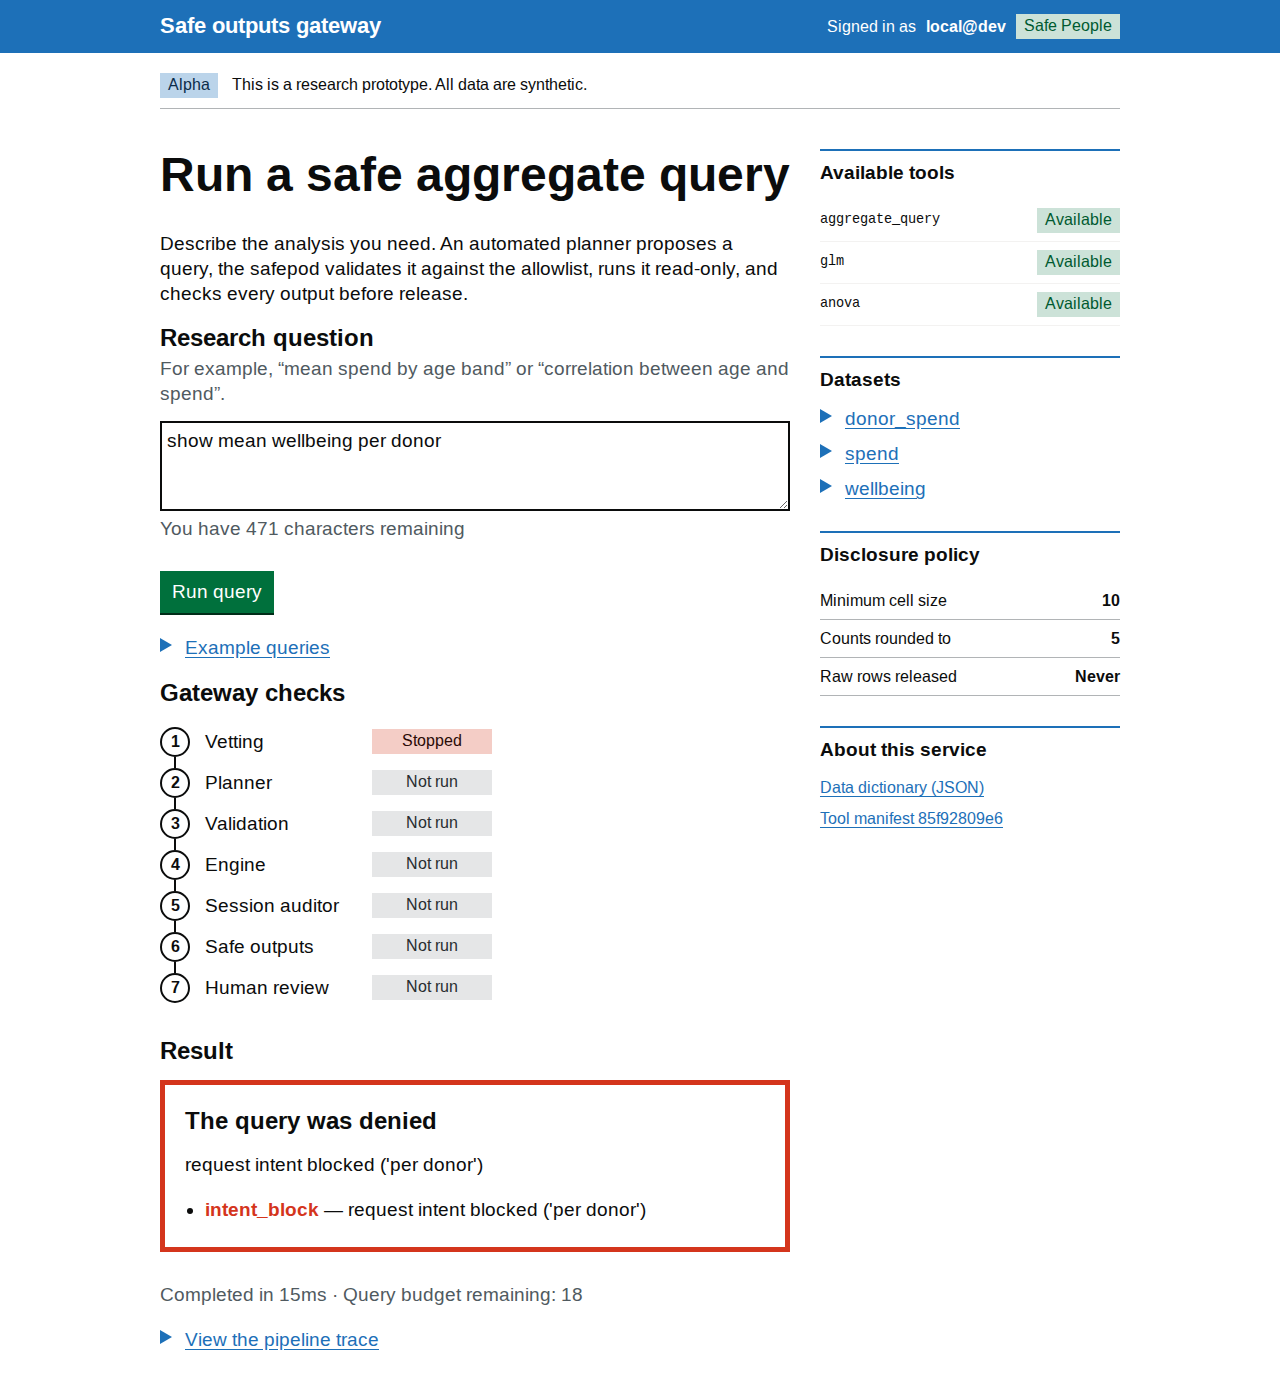
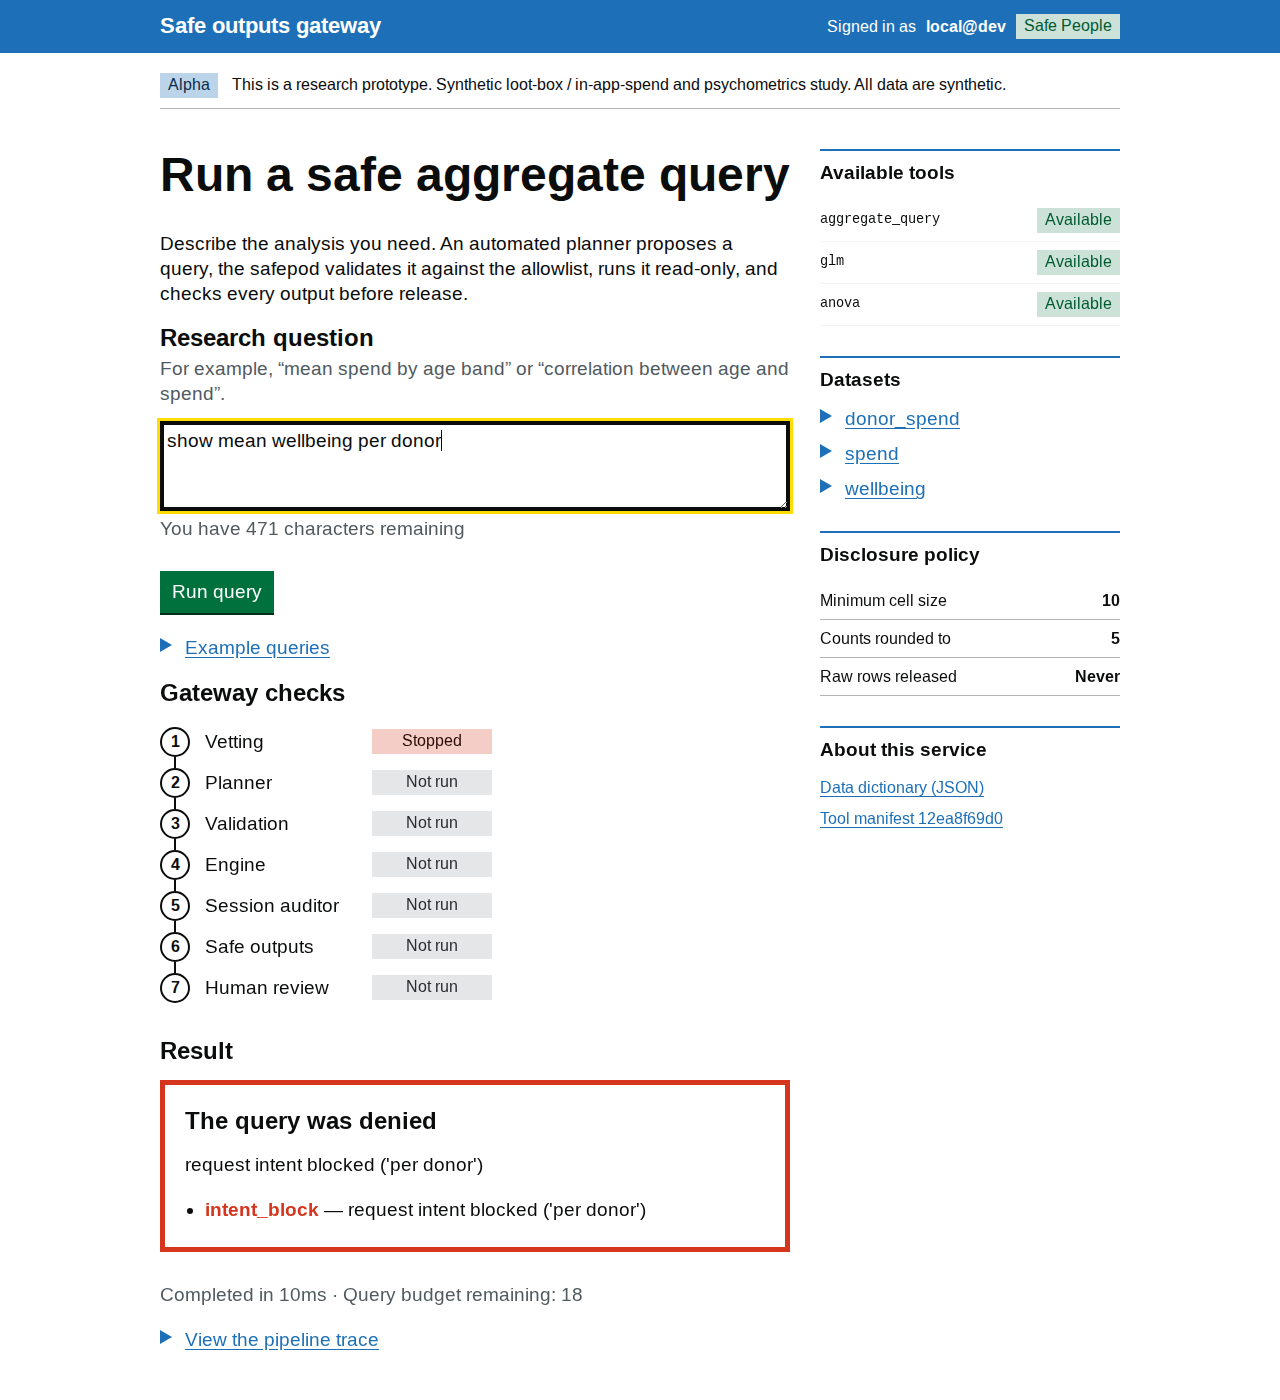
Give two documents their real names, and stop shipping a screenshot of a UI that no longer exists
Repository hygiene, from the fifth surface of the round-11 audit.

`docs/security2.md` was never a second security model -- its own H1 is
"Formal-methods hardening recommendations" and it is a companion to
FORMAL_METHODS_ANALYSIS, not to security.md. The name implied a supersession
that does not exist and hid the relationship that does. Both are renamed
(formal-methods-recommendations.md, formal-methods-analysis.md, the latter
also being the one file that broke the kebab-case scheme), with all twenty
referrers updated.

`docs/figures/web-ui-home.png` showed one tool where the app has had three
since the GLM round, an old manifest hash, and "All data is synthetic" -- and
was embedded in four documents. `web-ui-mobile.png` still showed the dark/teal
console the GOV.UK restyle retired in July, and nothing in the repository could
regenerate it. Both are deleted; make_demo_screenshots.py grew a per-shot
window size and now captures the mobile view too, so the whole set is
reproducible. The four demo shots were two rounds stale (manifest v8) and are
regenerated -- the released path still passes all seven gateway checks.

The red-team fixtures named a live commercial provider three times where a
neutral fixture already sat two tests below; the historical hardening entry
did too. Both neutralised: the project rule is that tracked content names no
provider.

Also: nohup.out and .audit-archive/ are ignored (both sat in `git status`
[…]

diff --git a/scripts/make_demo_screenshots.py b/scripts/make_demo_screenshots.py
@@ -33,11 +33,20 @@ BASE = f"http://127.0.0.1:{PORT}"
 
 # One entry per demo state. Queries are chosen so the deterministic mock
 # planner reproduces each gateway outcome; the tour page explains each one.
+# (url, window size). The mobile shot is here rather than captured by hand
+# because the hand-captured one went stale invisibly: `docs/figures/
+# web-ui-mobile.png` still showed the dark/teal console the GOV.UK restyle
+# retired in July, embedded in `docs/beginner.md`, with nothing in the
+# repository able to regenerate it (round 11 hygiene sweep).
+DESKTOP = "1280,1400"
+MOBILE = "390,1400"
 SHOTS = {
-    "demo-home": "/",
-    "demo-released": "/#q=mean%20spend%20by%20age%20band",
-    "demo-redacted": "/#q=mean%20spend%20by%20age%20band,%20region%20and%20device%20os",
-    "demo-denied": "/#q=show%20mean%20wellbeing%20per%20donor",
+    "demo-home": ("/", DESKTOP),
+    "demo-released": ("/#q=mean%20spend%20by%20age%20band", DESKTOP),
+    "demo-redacted": ("/#q=mean%20spend%20by%20age%20band,%20region%20and%20device%20os",
+                      DESKTOP),
+    "demo-denied": ("/#q=show%20mean%20wellbeing%20per%20donor", DESKTOP),
+    "demo-mobile": ("/", MOBILE),
 }
 
 
@@ -83,11 +92,11 @@ def main() -> None:
         try:
             wait_healthy()
             os.makedirs(FIGURES, exist_ok=True)
-            for name, path in SHOTS.items():
+            for name, (path, window) in SHOTS.items():
                 out = os.path.join(FIGURES, name + ".png")
                 subprocess.run(
                     [chrome, "--headless=new", "--disable-gpu", "--hide-scrollbars",
-                     "--window-size=1280,1400", "--run-all-compositor-stages-before-draw",
+                     f"--window-size={window}", "--run-all-compositor-stages-before-draw",
                      "--virtual-time-budget=9000",
                      f"--screenshot={out}", BASE + path],
                     check=True, stderr=subprocess.DEVNULL)

diff --git a/scripts/make_decks.py b/scripts/make_decks.py
@@ -613,7 +613,7 @@ def build_guidelines(shots: str, out: str) -> None:
 def build_formal_elif(shots: str, out: str) -> None:
     """The plain-language deck for the formal layer: what the Lean proofs and
     Alloy models do, why they are needed, how they work, where they stop
-    (precise version: docs/FORMAL_METHODS_ANALYSIS.md + formal/README.md)."""
+    (precise version: docs/formal-methods-analysis.md + formal/README.md)."""
     prs = Presentation()
     prs.slide_width = SLIDE_W
     prs.slide_height = SLIDE_H
@@ -621,7 +621,7 @@ def build_formal_elif(shots: str, out: str) -> None:
     title_slide(prs, "The maths-checked safety layer, explained simply",
                 "What the Lean proofs and Alloy models do, why we need them, "
                 "how they are built, and where they stop "
-                "(precise version: docs/FORMAL_METHODS_ANALYSIS.md · formal/README.md)")
+                "(precise version: docs/formal-methods-analysis.md · formal/README.md)")
 
     bullets_slide(prs, "TL;DR", [
         "Tests check the examples we thought of; proofs check EVERY possibility.",

diff --git a/tests/test_llm.py b/tests/test_llm.py
@@ -61,7 +61,7 @@ def test_llm_config_prefers_safetre_env_over_legacy_openai_env(monkeypatch):
 
 def test_llm_config_rejects_remote_endpoint_by_default(monkeypatch):
     clear_llm_env(monkeypatch)
-    monkeypatch.setenv("SAFETRE_LLM_BASE_URL", "https://openrouter.ai/api/v1")
+    monkeypatch.setenv("SAFETRE_LLM_BASE_URL", "https://remote.example/v1")
     with pytest.raises(ValueError, match="not allowed"):
         LLMConfig.from_env()
 
@@ -76,9 +76,9 @@ def test_llm_config_allows_named_in_safepod_model_host(monkeypatch):
 
 def test_llm_config_allows_remote_only_when_explicitly_enabled(monkeypatch):
     clear_llm_env(monkeypatch)
-    monkeypatch.setenv("SAFETRE_LLM_BASE_URL", "https://openrouter.ai/api/v1")
+    monkeypatch.setenv("SAFETRE_LLM_BASE_URL", "https://remote.example/v1")
     monkeypatch.setenv("SAFETRE_ALLOW_REMOTE_LLM", "1")
-    assert LLMConfig.from_env().base_url == "https://openrouter.ai/api/v1"
+    assert LLMConfig.from_env().base_url == "https://remote.example/v1"
 
 
 def test_remote_endpoint_configured_via_generic_env(monkeypatch):

diff --git a/tests/test_deploy_unit.py b/tests/test_deploy_unit.py
@@ -7,7 +7,7 @@ forged login was admitted; #65 set the audit database path and not the key, so
 the log was signed by a key sitting beside it. Both were found by reading, a
 round apart, and nothing in CI had ever looked at the file.
 
-This is what F8 was withdrawn in favour of (`docs/security2.md`). A trust-zone
+This is what F8 was withdrawn in favour of (`docs/formal-methods-recommendations.md`). A trust-zone
 model would have restated `docs/security.md`'s zone table with nothing tying it
 to the deployment, and passed forever regardless of what the unit said. The
 artifact under test here IS the thing that ships.

diff --git a/tests/test_formal_enumeration.py b/tests/test_formal_enumeration.py
@@ -1,6 +1,6 @@
 """Exhaustive (not sampled) formal checks over the bounded query skeleton.
 
-`docs/FORMAL_METHODS_ANALYSIS.md` argues the query space is finite and decidable.
+`docs/formal-methods-analysis.md` argues the query space is finite and decidable.
 `test_query_properties.py` samples it with Hypothesis; this module *enumerates*
 the no-filter skeleton in full — every dataset x every measure configuration x
 every group-by subset of size 0..MAX_GROUP_BY — and machine-checks the decidable

diff --git a/docs/hardening-log.md b/docs/hardening-log.md
@@ -210,7 +210,7 @@ models were rebuilt alongside them rather than after them — which is the other
 half of this round. `redteam/round9_repro.py` re-runs the four headline
 findings and exits nonzero while any is open; it is gated in CI beside the
 round-8 reproducers, and it self-checks that it can still fail by replaying a
-pre-#58 chain, where the defects must still be visible (hardening #48). `docs/security2.md` is the analysis that drove that;
+pre-#58 chain, where the defects must still be visible (hardening #48). `docs/formal-methods-recommendations.md` is the analysis that drove that;
 `formal/README.md` records what the models now check.
 
 | # | Finding | Sev | Status | Fix | Where |
@@ -230,7 +230,7 @@ pre-#58 chain, where the defects must still be visible (hardening #48). `docs/se
 | 70 | **CSRF posture rested on the content type.** There is no session cookie, so the classic token has nothing to protect — but the proxy header is an ambient credential, and a page the analyst visits could try to make their browser spend it. It failed only because the sole state-changing route takes JSON and a cross-origin JSON POST needs a preflight this app never answers: a defence by accident of content type, lasting until someone adds a form-encoded endpoint | Low | **Fixed** | a `Sec-Fetch-Site` gate refuses `cross-site` and `same-site` on state-changing methods. It is the browser's own account of provenance, so a page cannot forge it; an ABSENT header is allowed, because curl, the CLI and the test client send none and refusing them would break every non-browser caller for nothing | `safetre_web/app.py`, `tests/test_web.py` |
 | 71 | **The stored request is untrusted content, and nothing said so.** The audit log keeps the 500-character request verbatim. Templates autoescape today, so there is no live defect — but the chain proves a row is AUTHENTIC, which is a different claim from its contents being safe to render or to act on, and a stored prompt-injection payload is exactly the shape that fits the field | Low | **Documented** | `append` and `since` now say it where a future log viewer's author will read it, and a test pins that no template renders audit content unescaped. Deliberately not sanitised: the log's job is to record what happened, and a cleaned-up record of a hostile request is a worse record | `safetre/audit.py`, `tests/test_web.py` |
 | 72 | **An audit for one justification form, and the three claims it found.** Three findings had turned out to be the same mistake — D7's "the bit a direct query already returns" (#62), P22's "computable from the released cell table itself" (#66), and the original of both — so the form was searched for deliberately rather than waited for: a safety claim of the shape *the analyst could obtain this anyway*, asserted on the branch where they could not. Three more claims failed the check, none of them a live defect and all of them the reasoning a future reader would use | Low | **Corrected** | `simulatable_cohort_bound` said its interaction residual was "largely covered by the per-cell donor threshold (a narrow cohort's cells are suppressed anyway)" — but the threshold suppresses small CELLS and this attack never asks for one, it differences two legitimately large releases, which is the whole shape of #39/#40. It is also stale: the exact row-level leg has closed it since #40. `response_quantum_ms` justified its size by "cells at or above the threshold have their counts published anyway", true only up to ROUNDING — two released cohorts inside one rounding bucket also have exact sizes the analyst does not hold, so the quantum has to cover them too. The value is unchanged and measured; the argument for it was wrong, and an argument is what someone re-deriving the number would use. `Result.plans` said "safe to show" without distinguishing its content from its presence, which #66 had already made false | `safetre/disclosure.py`, `safetre/config.py`, `safetre/service.py`, `docs/policy-parameters.md` |
-| 73 | **Nothing in CI had ever read the shipped systemd unit.** #45 (`SAFETRE_REQUIRE_IDENTITY=1` with no proxy secret and no allowlist) and #65 (the audit database path set and not the key) were the same defect twice: the unit not setting something the running code treats as required. Both were found by reading, a round apart | Med | **Fixed** | `tests/test_deploy_unit.py` parses `deploy/safetre-web.service` and checks it against what the code itself calls production — the required names are read out of `identity.configuration_problems()` rather than restated, so a NEW requirement in the code fails until the unit answers it. It also checks that secrets are never literals in the unit, that the bind stays loopback-only, that the sandboxing directives survive edits, and end to end that the unit's own settings leave the code with nothing to complain about. This is what F8 was withdrawn in favour of: the artifact under test is the thing that ships, which a trust-zone model would not have been | `tests/test_deploy_unit.py`, `docs/security2.md` |
+| 73 | **Nothing in CI had ever read the shipped systemd unit.** #45 (`SAFETRE_REQUIRE_IDENTITY=1` with no proxy secret and no allowlist) and #65 (the audit database path set and not the key) were the same defect twice: the unit not setting something the running code treats as required. Both were found by reading, a round apart | Med | **Fixed** | `tests/test_deploy_unit.py` parses `deploy/safetre-web.service` and checks it against what the code itself calls production — the required names are read out of `identity.configuration_problems()` rather than restated, so a NEW requirement in the code fails until the unit answers it. It also checks that secrets are never literals in the unit, that the bind stays loopback-only, that the sandboxing directives survive edits, and end to end that the unit's own settings leave the code with nothing to complain about. This is what F8 was withdrawn in favour of: the artifact under test is the thing that ships, which a trust-zone model would not have been | `tests/test_deploy_unit.py`, `docs/formal-methods-recommendations.md` |
 | 74 | **The last thing a restart did not survive.** #49 rebuilt the differencing lineage from the audit log and documented one residual: the cheap first-pass check compares a release's DISTINCT-DONOR total against every prior release of the same measure, and the audit row recorded an output *shape* rather than that total — so the lineage layer came back whole after a restart and the totals layer came back empty. #58 made the accounting authoritative and left it; it was the only part of the restart path that still did not restore | Low | **Fixed** | the accounting block carries the totals the request observed, and `rehydrate` replays them through a new `SessionAuditor.restore_observation` — deliberately not `observe`, which would charge budget and re-evaluate a rule that already ran when the release was live. Rows written before this carry no `totals` key and restore nothing, exactly as they did | `safetre/service.py`, `safetre/disclosure.py`, `safetre_web/session.py`, `tests/test_hardening.py` |
 
 ### Notes
@@ -949,7 +949,7 @@ off-pod audit anchoring, and network policy outside the process.
 
 | # | Finding | Sev | Status | Fix | Where |
 |---|---|---|---|---|---|
-| 10 | Real-model config defaulted to a hosted OpenRouter-style endpoint and used a provider SDK, making the local-model production posture weaker than the docs implied | Med | **Fixed** | local-first `SAFETRE_LLM_*` config, no SDK dependency, stdlib OpenAI-compatible HTTP adapter, host allowlist, explicit `SAFETRE_ALLOW_REMOTE_LLM=1` for synthetic-data remote use | `safetre/llm.py`, `.env.example`, `docs/model-runtime.md` |
+| 10 | Real-model config defaulted to a hosted third-party endpoint and used a provider SDK, making the local-model production posture weaker than the docs implied | Med | **Fixed** | local-first `SAFETRE_LLM_*` config, no SDK dependency, stdlib OpenAI-compatible HTTP adapter, host allowlist, explicit `SAFETRE_ALLOW_REMOTE_LLM=1` for synthetic-data remote use | `safetre/llm.py`, `.env.example`, `docs/model-runtime.md` |
 
 ### Notes
 

diff --git a/docs/formal-methods-recommendations.md b/docs/formal-methods-recommendations.md
@@ -7,7 +7,7 @@ decisions are recorded below with the reasoning, because a recommendation that
 quietly stops being worked on is indistinguishable from one nobody got to. The delivered items landed with the round-9 code fixes they
 specify — hardening #58–#67, see the [hardening log](hardening-log.md) and
 [formal/README.md](https://github.com/wadelab/safe-tre-agent/blob/main/formal/README.md). Companion to
-[security.md](security.md), [FORMAL_METHODS_ANALYSIS.md](FORMAL_METHODS_ANALYSIS.md),
+[security.md](security.md), [formal-methods-analysis.md](formal-methods-analysis.md),
 [formal/README.md](https://github.com/wadelab/safe-tre-agent/blob/main/formal/README.md) and
 [redteam/round9_report.md](https://github.com/wadelab/safe-tre-agent/blob/main/redteam/round9_report.md). This document
 recommends the formal-model work and records which of it has landed.
@@ -483,7 +483,7 @@ exactly the overclaim this document exists to stop.
 
 ### F6, original plan
 
-Designed in FORMAL_METHODS_ANALYSIS.md §C; its prerequisite (release =
+Designed in formal-methods-analysis.md §C; its prerequisite (release =
 postprocess ∘ finalize ∘ vet, hardening #26) has landed, and
 `tests/test_release_equality.py` is the executable half in both directions.
 
@@ -526,7 +526,7 @@ Roadmap item 3, unchanged in position: the only route to value-level
 insensitivity to any one donor as a theorem rather than a control description.
 Everything above hardens the deterministic pathway; this replaces "insensitive
 up to the controls" with an ε. Prefer a vetted library (OpenDP or equivalent)
-over a bespoke mechanism proof, per FORMAL_METHODS_ANALYSIS.md §E —
+over a bespoke mechanism proof, per formal-methods-analysis.md §E —
 deterministic rounding is not DP and should never be described as such.
 
 ## What is actually next, now that F1–F7 and F10 are in

diff --git a/docs/index.md b/docs/index.md
@@ -78,7 +78,7 @@ hosted server is involved.
 | See what's been red-teamed and fixed | [Hardening log](hardening-log.md) |
 | See the conformance review against TRE practice | [Best-practice review](best-practice-review.md) |
 | See the GOV.UK interface restyle record | [GOV.UK restyle record](govuk-ui-plan.md) |
-| See the formal-methods analysis | [Formal methods](FORMAL_METHODS_ANALYSIS.md) |
+| See the formal-methods analysis | [Formal methods](formal-methods-analysis.md) |
 | See candidate verifiable extensions | [Verifiable extensions](verifiable-extensions.md) |
 
 ### Positioning
@@ -112,4 +112,4 @@ differential-privacy release mode).
 > outputs-checked TRE model; ACRO/SACRO (DARE UK) for statistical disclosure
 > control; the Five Safes framework for governance.
 
-![safe-tre-agent web interface](figures/web-ui-home.png)
+![safe-tre-agent web interface](figures/demo-home.png)

diff --git a/docs/govuk-ui-plan.md b/docs/govuk-ui-plan.md
@@ -1,5 +1,13 @@
 # GOV.UK UI plan
 
+> **Status: DELIVERED** (2026-07-06, commit `41f7df0`). This page is the record
+> of a plan that shipped, kept for the reasoning rather than as work
+> outstanding: `safetre_web/static/app.css` cites it by name, every colour
+> token in "Visual language" below is in the shipped `:root` block, and the
+> choices under "Decisions to confirm" are settled in
+> `safetre_web/templates/index.html`. The shell is
+> [frozen](maintenance.md) — fixes only, no new shell features.
+
 Restyle the web interface to follow the
 [GOV.UK design principles](https://www.gov.uk/guidance/government-design-principles)
 and, for the concrete visual and interaction language, the

diff --git a/docs/verifiable-extensions.md b/docs/verifiable-extensions.md
@@ -5,7 +5,7 @@ system so that adding a new statistical procedure (regression, quantiles,
 ANOVA) or supporting a new kind of natural-language query is
 verifiable-by-construction, rather than a hand-audited change to three files?**
 
-It is the architectural companion to [Formal methods analysis](FORMAL_METHODS_ANALYSIS.md),
+It is the architectural companion to [Formal methods analysis](formal-methods-analysis.md),
 which catalogues *what* to prove about the current system. This one is about
 *where the seams should be* so that each new thing you add comes with a fixed,
 enumerable set of obligations — and so that you cannot wire it in until those

diff --git a/docs/beginner.md b/docs/beginner.md
@@ -50,12 +50,12 @@ loot-box, demographic, and wellbeing tables. It includes:
 - a red-team script showing what leaks with the gateway off and what is blocked
   with the gateway on.
 
-![Desktop screenshot of the web interface](figures/web-ui-home.png)
+![Desktop screenshot of the web interface](figures/demo-home.png)
 
 On narrow screens the same interface stacks the identity, query, and catalogue
 panels:
 
-![Mobile screenshot of the web interface](figures/web-ui-mobile.png)
+![Mobile screenshot of the web interface](figures/demo-mobile.png)
 
 ## The three result states
 

diff --git a/formal/README.md b/formal/README.md
@@ -195,5 +195,5 @@ numeric fit itself (covered by the reproducibility meta-test and the
 statsmodels oracle), rounding/dominance arithmetic (covered by the gateway's
 own tests), and value-level noninterference through the release path — the
 remaining slice, designed in the §C note of
-`docs/FORMAL_METHODS_ANALYSIS.md`; its prerequisite (released-value shaping
+`docs/formal-methods-analysis.md`; its prerequisite (released-value shaping
 running on the finalized frame) landed with hardening #26.
